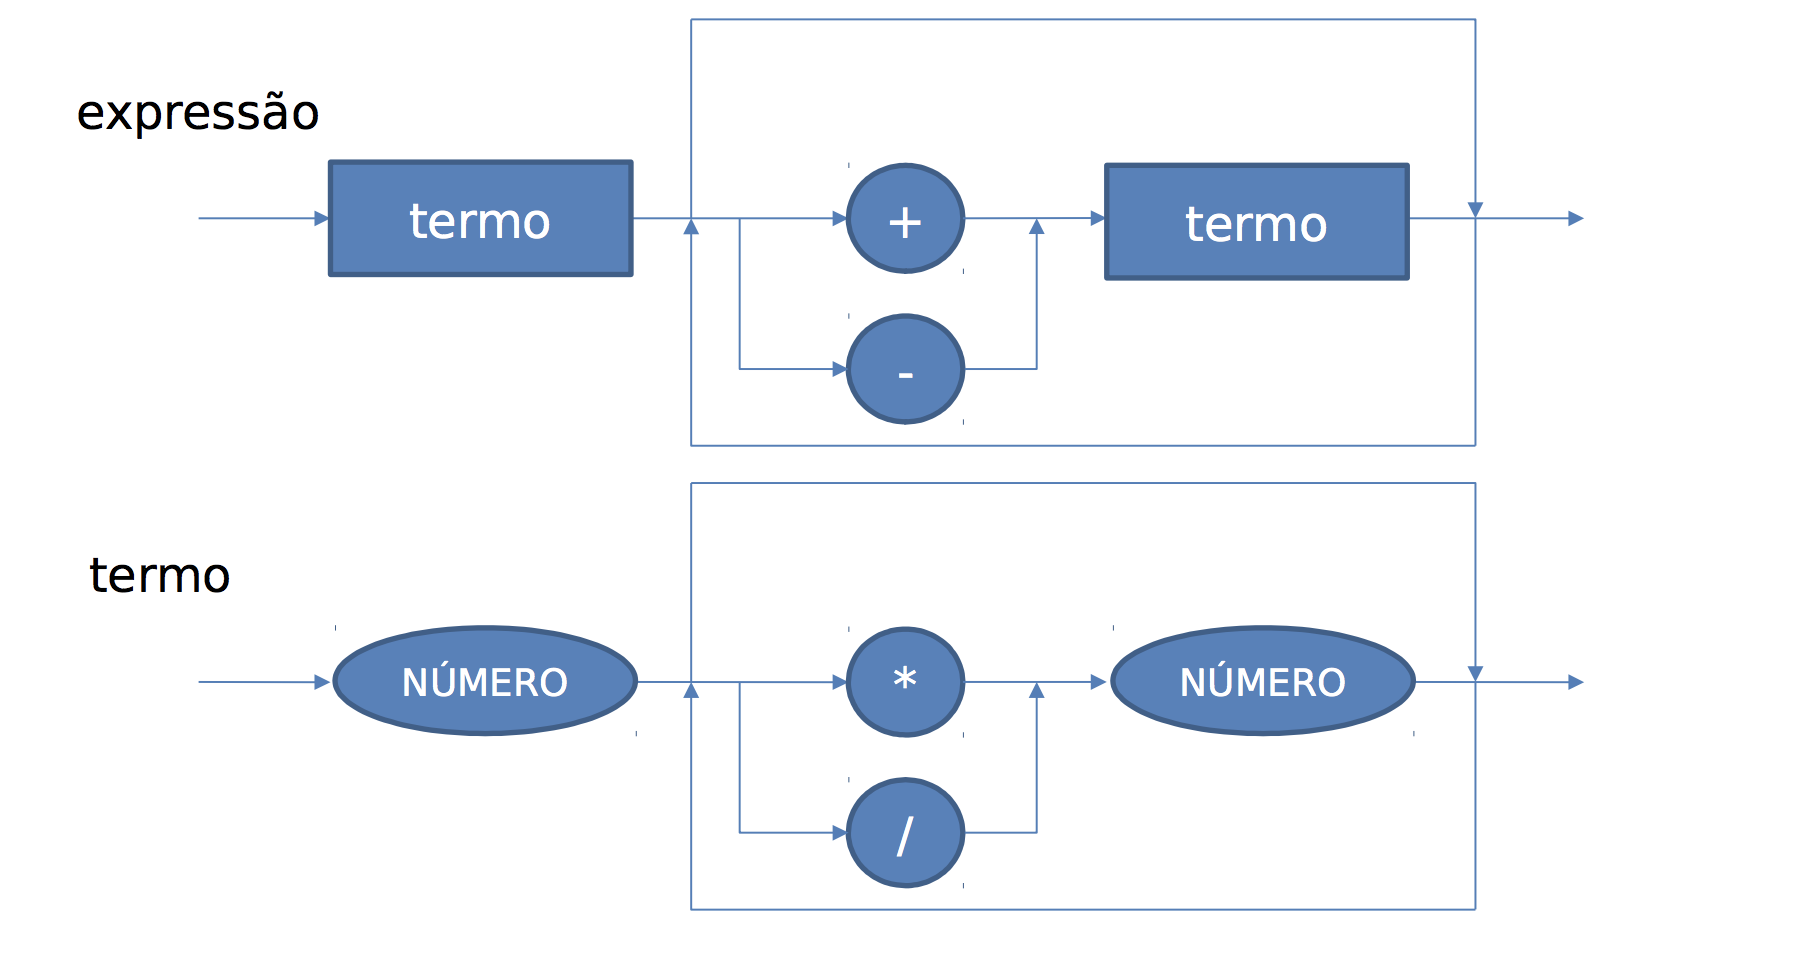
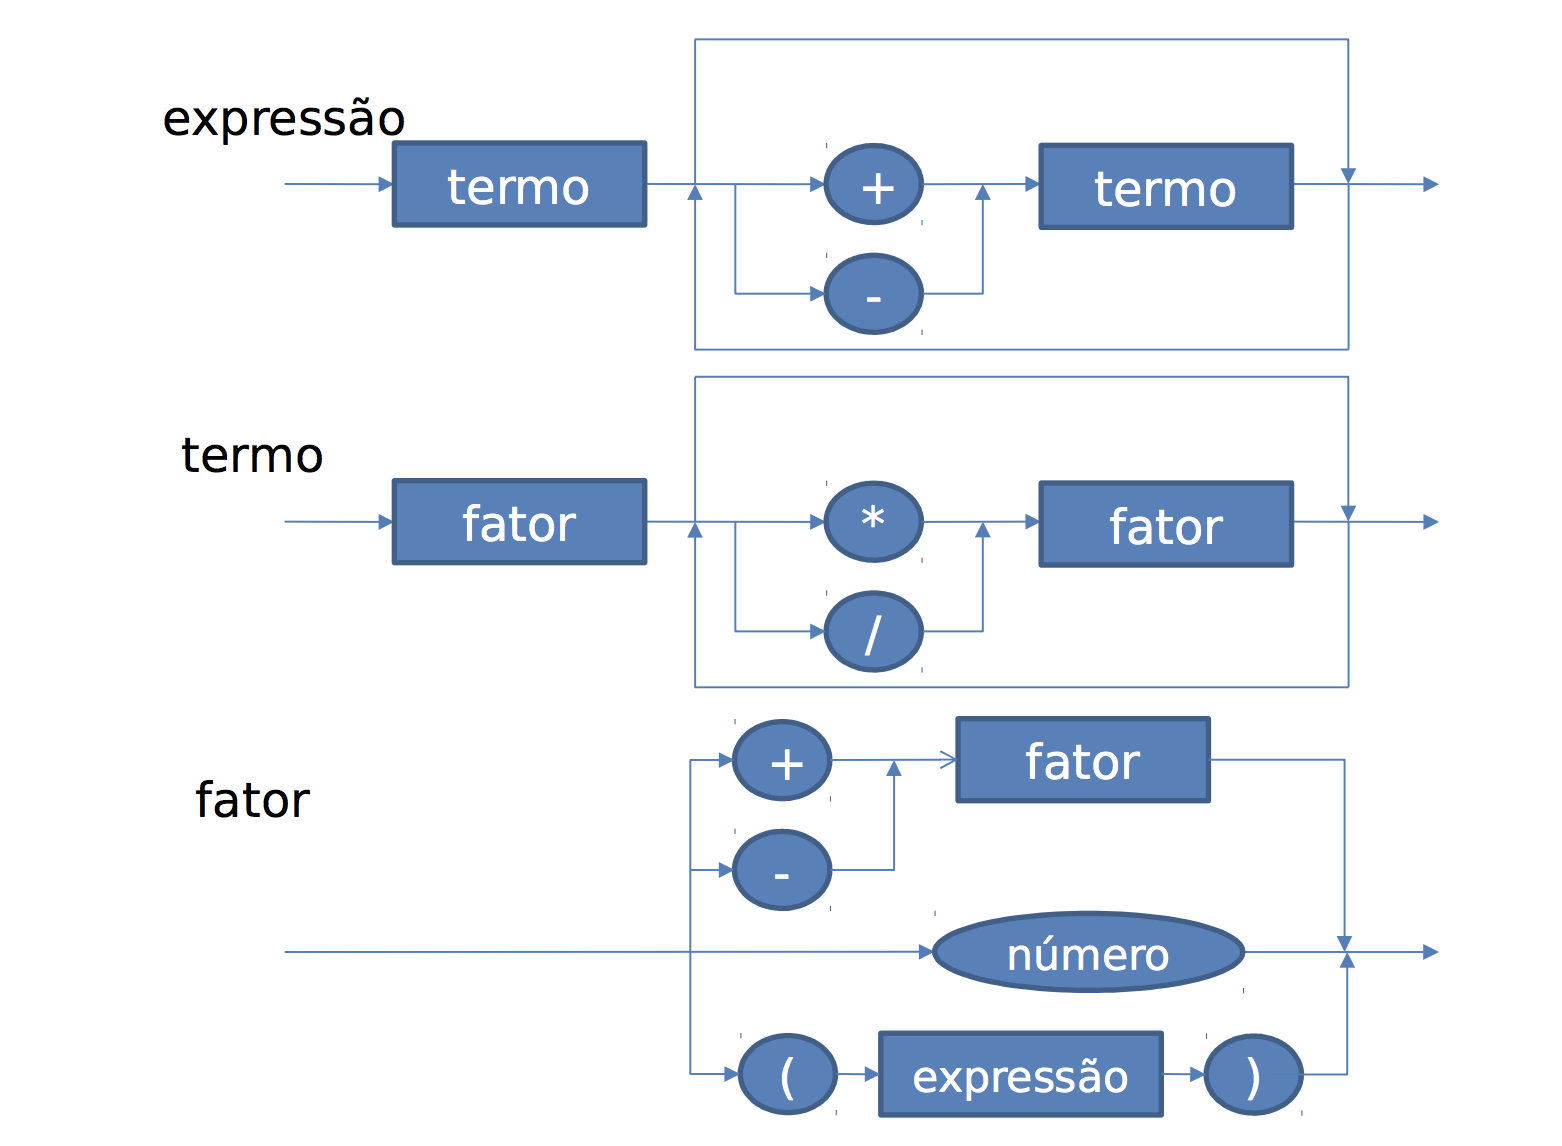
parenthesis and unary op

diff --git a/compiler.py b/compiler.py
@@ -8,6 +8,8 @@ MINUS = "MINUS"
 INT = "INT"
 DIVISION = "DIVISION"
 MULTIPLICATION = "MULTIPLICATION"
+OPEN_PARENTHESIS = "OPEN_PARENTHESIS"
+CLOSE_PARENTHESIS = "CLOSE_PARENTHESIS"
 
 #ERRORS
 operatorError = "A non-digit followed a operator"
@@ -15,6 +17,7 @@ operatorAbsenceError = "A non-operator followed a digit"
 digitAbsenceError = "A non-digit character started the command"
 commentNotCloseException = "A comment was started but closing symbol '*/' is missing "
 spaceInBetweenDigitsException = "Does not accept space in between digits without operators"
+parenthesisNotClosedException = "Parenthesis was not closed"
 
 class Token:
     def __init__(self, value, type):
@@ -59,6 +62,16 @@ class Tokenizer:
             self.position += 1
             self.current_token = Token(value, MULTIPLICATION)
             return
+        if self.origin[self.position] == "(":
+            value = "("
+            self.position += 1
+            self.current_token = Token(value, OPEN_PARENTHESIS)
+            return
+        if self.origin[self.position] == ")":
+            value = ")"
+            self.position += 1
+            self.current_token = Token(value, CLOSE_PARENTHESIS)
+            return
         raise Exception(digitAbsenceError)
 
 class PreProcessing:
@@ -91,42 +104,47 @@ class Analyser:
         Analyser.tokens = Tokenizer(origin)
 
     @staticmethod
-    def termTreatment():
-        result = None
+    def factorTreatment():
         Analyser.tokens.selectNextToken()
         if Analyser.tokens.current_token.type == INT:
-            result = Analyser.tokens.current_token.value
-            Analyser.tokens.selectNextToken()
-            while(Analyser.tokens.current_token.type == MULTIPLICATION or Analyser.tokens.current_token.type == DIVISION):
-                if Analyser.tokens.current_token.type == MULTIPLICATION:
-                    Analyser.tokens.selectNextToken()
-                    if Analyser.tokens.current_token.type == INT:
-                        result *= Analyser.tokens.current_token.value
-                    else:
-                        raise Exception(operatorError)
-                elif Analyser.tokens.current_token.type == DIVISION:
-                    Analyser.tokens.selectNextToken()
-                    if Analyser.tokens.current_token.type == INT:
-                        result //= Analyser.tokens.current_token.value
-                    else:
-                        raise Exception(operatorError)
-                else:
-                    raise Exception(operatorAbsenceError)
-                Analyser.tokens.selectNextToken()
+            return Analyser.tokens.current_token.value
+        elif Analyser.tokens.current_token.type == PLUS:
+            return Analyser.factorTreatment()
+        elif Analyser.tokens.current_token.type == MINUS:
+            return -(Analyser.factorTreatment())
+        elif Analyser.tokens.current_token.type == OPEN_PARENTHESIS:
+            result = Analyser.analyseExpression()
+            if Analyser.tokens.current_token.type != CLOSE_PARENTHESIS:
+                Exception(parenthesisNotClosedException)
+            else:
+                return result
         else:
             raise Exception(digitAbsenceError)
+
+    @staticmethod
+    def termTreatment():
+        result = Analyser.factorTreatment()
+        Analyser.tokens.selectNextToken()
+        while(Analyser.tokens.current_token.type == MULTIPLICATION or Analyser.tokens.current_token.type == DIVISION):
+            if Analyser.tokens.current_token.type == MULTIPLICATION:
+                result = Analyser.factorTreatment()
+                result *= Analyser.tokens.current_token.value
+            elif Analyser.tokens.current_token.type == DIVISION:
+                result = Analyser.factorTreatment()
+                result //= Analyser.tokens.current_token.value
+            else:
+                raise Exception(operatorAbsenceError)
+            # Analyser.tokens.selectNextToken()
         return result
 
     @staticmethod     
     def analyseExpression():
         result = Analyser.termTreatment()
-        while(Analyser.tokens.current_token.type != EOF):
+        while(Analyser.tokens.current_token.type == PLUS or Analyser.tokens.current_token.type == MINUS):
             if Analyser.tokens.current_token.type == PLUS:
                     result += Analyser.termTreatment()
             elif Analyser.tokens.current_token.type == MINUS:
                     result -= Analyser.termTreatment()
-            else:
-                raise Exception(operatorAbsenceError)
         return result
 
 command = (str(input("Calculator: ")))
